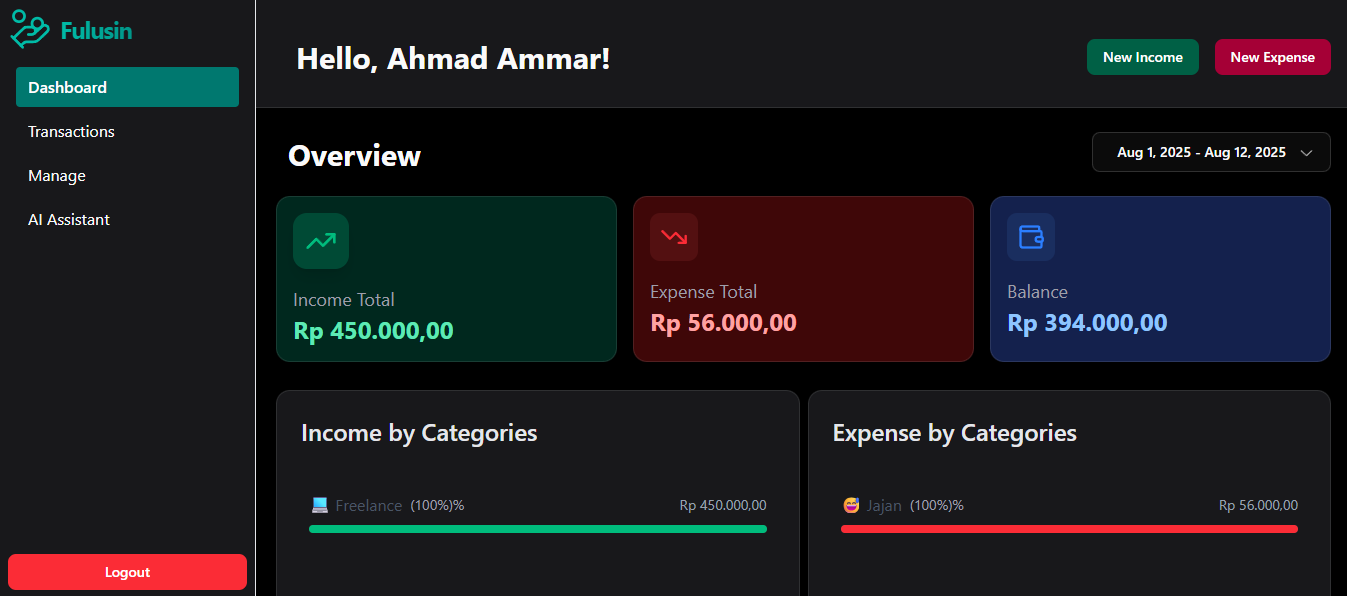
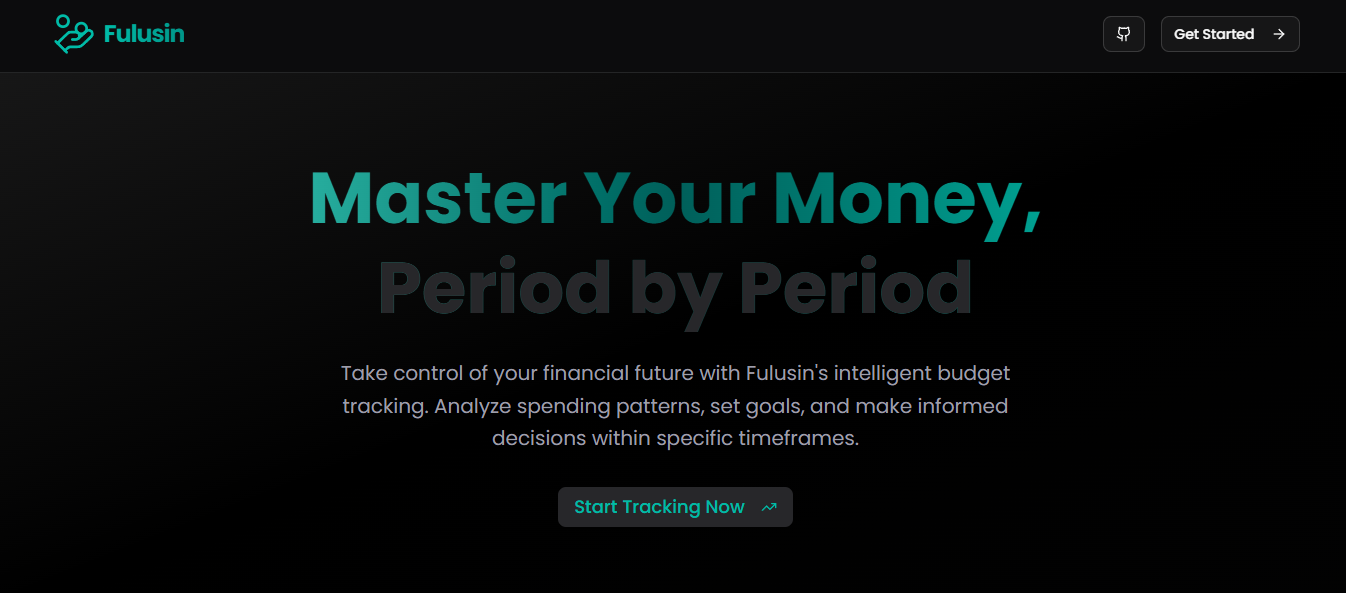
feat: add gambar 4

diff --git a/constants/portfolio.ts b/constants/portfolio.ts
@@ -142,8 +142,9 @@ export const fullPortfolio: Portfolio[] = [
         nama: "Fulusin",
         slug: "fulusin",
         gambar: "/assets/portfolios/fulusin.png",
-        gambar2: "/assets/portfolios/fulusin/2.png",
-        gambar3: "/assets/portfolios/fulusin/3.png",
+        gambar2: "/assets/portfolios/fulusin/1.png",
+        gambar3: "/assets/portfolios/fulusin/2.png",
+        gambar4: "/assets/portfolios/fulusin/3.png",
         deskripsi: "Web-based financial tracker platform based on a period to help individuals manage, track, and analyze their financial activities within specific timeframes.",
         deskripsi2: "Web-based financial tracker platform based on a period to help individuals manage, track, and analyze their financial activities within specific timeframes.",
         features: [

diff --git a/types/portfolio.d.ts b/types/portfolio.d.ts
@@ -4,6 +4,7 @@ export type Portfolio = {
     gambar: string;
     gambar2?: string;
     gambar3?: string;
+    gambar4?:string;
     deskripsi: string;
     deskripsi2: string
     teknologi: string[];
